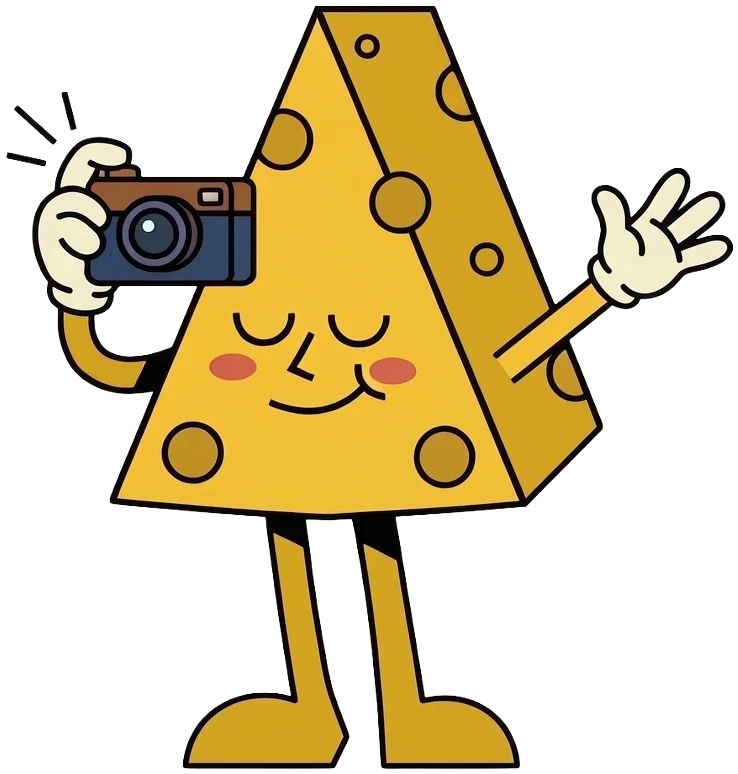
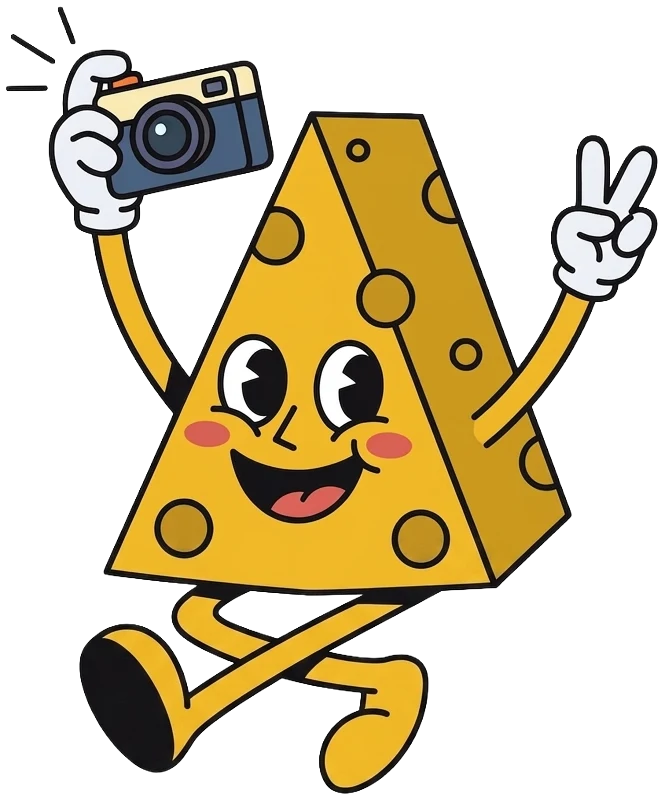
Swap mascot poses: standing wave in hero, peace (no stars) in footer

diff --git a/index.html b/index.html
@@ -27,7 +27,7 @@
   <meta name="twitter:image" content="https://cheddarcam.com/assets/img/og-image.png" />
 
   <link rel="preload" href="fonts/nunito-latin.woff2" as="font" type="font/woff2" crossorigin />
-  <link rel="stylesheet" href="css/styles.css?v=202609110930" />
+  <link rel="stylesheet" href="css/styles.css?v=202609110934" />
 
   <script type="application/ld+json">
   {
@@ -164,7 +164,7 @@
           <div class="bubble hero-say say-4 b-right" aria-hidden="true"><span class="em">🦸</span>Super smile!</div>
           <!-- Cheddar mascot (cheesy 1) standing on the hero floor, left of the phone.
                Hidden until assets/img/mascot.webp exists (data-shot swaps it in). -->
-          <div class="hero-mascot" data-shot="assets/img/mascot.webp?v=202609110930" data-shot-alt="Cheddar the cheese mascot, waving with a camera" aria-hidden="true"></div>
+          <div class="hero-mascot" data-shot="assets/img/mascot.webp?v=202609110934" data-shot-alt="Cheddar the cheese mascot, waving with a camera" aria-hidden="true"></div>
 
           <div class="phone hero-phone">
             <div class="phone-screen">
@@ -425,7 +425,7 @@
             <li><a href="/contact">Contact</a></li>
           </ul>
         </div>
-        <div class="foot-mascot" data-shot="assets/img/mascot-foot.webp?v=202609110930" data-shot-alt="" aria-hidden="true"></div>
+        <div class="foot-mascot" data-shot="assets/img/mascot-foot.webp?v=202609110934" data-shot-alt="" aria-hidden="true"></div>
       </div>
       <div class="footer-bottom">
         <span>© 2026 Snacks Design. All rights reserved. · <a href="/privacy">Privacy</a></span>
@@ -434,6 +434,6 @@
     </div>
   </footer>
 
-  <script src="js/main.js?v=202609110930" defer></script>
+  <script src="js/main.js?v=202609110934" defer></script>
 </body>
 </html>

diff --git a/contact.html b/contact.html
@@ -21,7 +21,7 @@
   <meta property="og:image" content="https://cheddarcam.com/assets/img/og-image.png" />
 
   <link rel="preload" href="fonts/nunito-latin.woff2" as="font" type="font/woff2" crossorigin />
-  <link rel="stylesheet" href="css/styles.css?v=202609110930" />
+  <link rel="stylesheet" href="css/styles.css?v=202609110934" />
 </head>
 <body>
   <a class="skip-link" href="#main">Skip to content</a>
@@ -106,7 +106,7 @@
             <li><a href="/contact">Contact</a></li>
           </ul>
         </div>
-        <div class="foot-mascot" data-shot="assets/img/mascot-foot.webp?v=202609110930" data-shot-alt="" aria-hidden="true"></div>
+        <div class="foot-mascot" data-shot="assets/img/mascot-foot.webp?v=202609110934" data-shot-alt="" aria-hidden="true"></div>
       </div>
       <div class="footer-bottom">
         <span>© 2026 Snacks Design. All rights reserved. · <a href="/privacy">Privacy</a></span>
@@ -115,6 +115,6 @@
     </div>
   </footer>
 
-  <script src="js/main.js?v=202609110930" defer></script>
+  <script src="js/main.js?v=202609110934" defer></script>
 </body>
 </html>

diff --git a/privacy.html b/privacy.html
@@ -21,7 +21,7 @@
   <meta property="og:image" content="https://cheddarcam.com/assets/img/og-image.png" />
 
   <link rel="preload" href="fonts/nunito-latin.woff2" as="font" type="font/woff2" crossorigin />
-  <link rel="stylesheet" href="css/styles.css?v=202609110930" />
+  <link rel="stylesheet" href="css/styles.css?v=202609110934" />
 </head>
 <body>
   <a class="skip-link" href="#main">Skip to content</a>
@@ -221,7 +221,7 @@
             <li><a href="/contact">Contact</a></li>
           </ul>
         </div>
-        <div class="foot-mascot" data-shot="assets/img/mascot-foot.webp?v=202609110930" data-shot-alt="" aria-hidden="true"></div>
+        <div class="foot-mascot" data-shot="assets/img/mascot-foot.webp?v=202609110934" data-shot-alt="" aria-hidden="true"></div>
       </div>
       <div class="footer-bottom">
         <span>© 2026 Snacks Design. All rights reserved. · <a href="/privacy">Privacy</a></span>
@@ -230,6 +230,6 @@
     </div>
   </footer>
 
-  <script src="js/main.js?v=202609110930" defer></script>
+  <script src="js/main.js?v=202609110934" defer></script>
 </body>
 </html>

diff --git a/404.html b/404.html
@@ -13,7 +13,7 @@
   <link rel="apple-touch-icon" href="assets/img/apple-touch-icon.png" />
 
   <link rel="preload" href="fonts/nunito-latin.woff2" as="font" type="font/woff2" crossorigin />
-  <link rel="stylesheet" href="css/styles.css?v=202609110930" />
+  <link rel="stylesheet" href="css/styles.css?v=202609110934" />
 </head>
 <body>
   <a class="skip-link" href="#main">Skip to content</a>
@@ -92,7 +92,7 @@
             <li><a href="/contact">Contact</a></li>
           </ul>
         </div>
-        <div class="foot-mascot" data-shot="assets/img/mascot-foot.webp?v=202609110930" data-shot-alt="" aria-hidden="true"></div>
+        <div class="foot-mascot" data-shot="assets/img/mascot-foot.webp?v=202609110934" data-shot-alt="" aria-hidden="true"></div>
       </div>
       <div class="footer-bottom">
         <span>© 2026 Snacks Design. All rights reserved. · <a href="/privacy">Privacy</a></span>
@@ -101,6 +101,6 @@
     </div>
   </footer>
 
-  <script src="js/main.js?v=202609110930" defer></script>
+  <script src="js/main.js?v=202609110934" defer></script>
 </body>
 </html>

diff --git a/faq.html b/faq.html
@@ -21,7 +21,7 @@
   <meta property="og:image" content="https://cheddarcam.com/assets/img/og-image.png" />
 
   <link rel="preload" href="fonts/nunito-latin.woff2" as="font" type="font/woff2" crossorigin />
-  <link rel="stylesheet" href="css/styles.css?v=202609110930" />
+  <link rel="stylesheet" href="css/styles.css?v=202609110934" />
 
   <script type="application/ld+json">
   {
@@ -264,7 +264,7 @@
             <li><a href="/contact">Contact</a></li>
           </ul>
         </div>
-        <div class="foot-mascot" data-shot="assets/img/mascot-foot.webp?v=202609110930" data-shot-alt="" aria-hidden="true"></div>
+        <div class="foot-mascot" data-shot="assets/img/mascot-foot.webp?v=202609110934" data-shot-alt="" aria-hidden="true"></div>
       </div>
       <div class="footer-bottom">
         <span>© 2026 Snacks Design. All rights reserved. · <a href="/privacy">Privacy</a></span>
@@ -273,6 +273,6 @@
     </div>
   </footer>
 
-  <script src="js/main.js?v=202609110930" defer></script>
+  <script src="js/main.js?v=202609110934" defer></script>
 </body>
 </html>

diff --git a/css/styles.css b/css/styles.css
@@ -423,7 +423,7 @@ section { padding-block: var(--section-gap); }
   position: absolute;
   left: 2%;
   bottom: -5%;
-  width: clamp(200px, 24vw, 320px);
+  width: clamp(190px, 22vw, 292px);
   z-index: 3;
   pointer-events: none;
 }
@@ -445,7 +445,7 @@ section { padding-block: var(--section-gap); }
   right: clamp(8px, 4vw, 64px);
   top: 0;
   transform: translateY(-32%);
-  width: clamp(185px, 20vw, 258px);
+  width: clamp(195px, 22vw, 278px);
   z-index: 5;
   pointer-events: none;
 }
